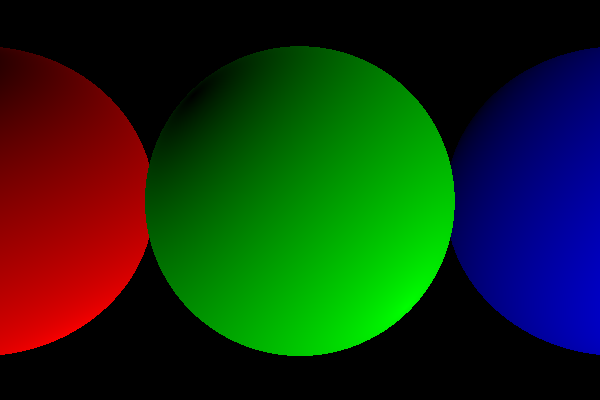
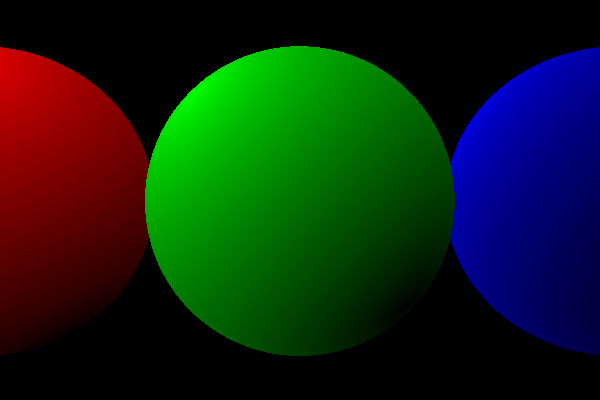
Fix diffuse intensity equation

diff --git a/src/texture/diffuse.rs b/src/texture/diffuse.rs
@@ -42,7 +42,7 @@ impl<ShapeT: Shape + SurfaceNormal> Texture<ShapeT> for Diffuse<ShapeT> {
             .map(|l| {
                 let relative_light = l.position - position;
                 let angle = math::angle(normal, relative_light.unit());
-                (angle / f64::consts::PI) * l.intensity
+                (1.0 - angle / f64::consts::PI) * l.intensity
             })
             .sum();
         let total_intensity = total_intensity.min(1.0);
